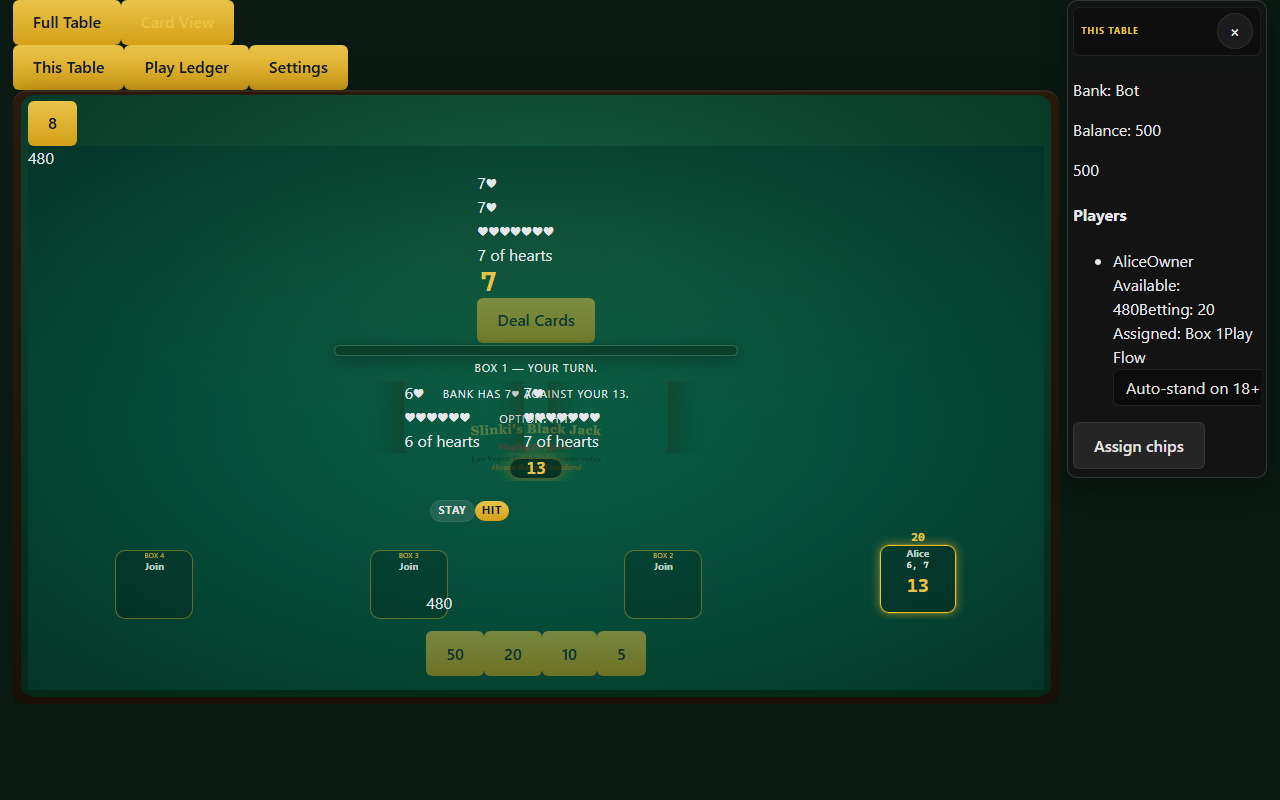
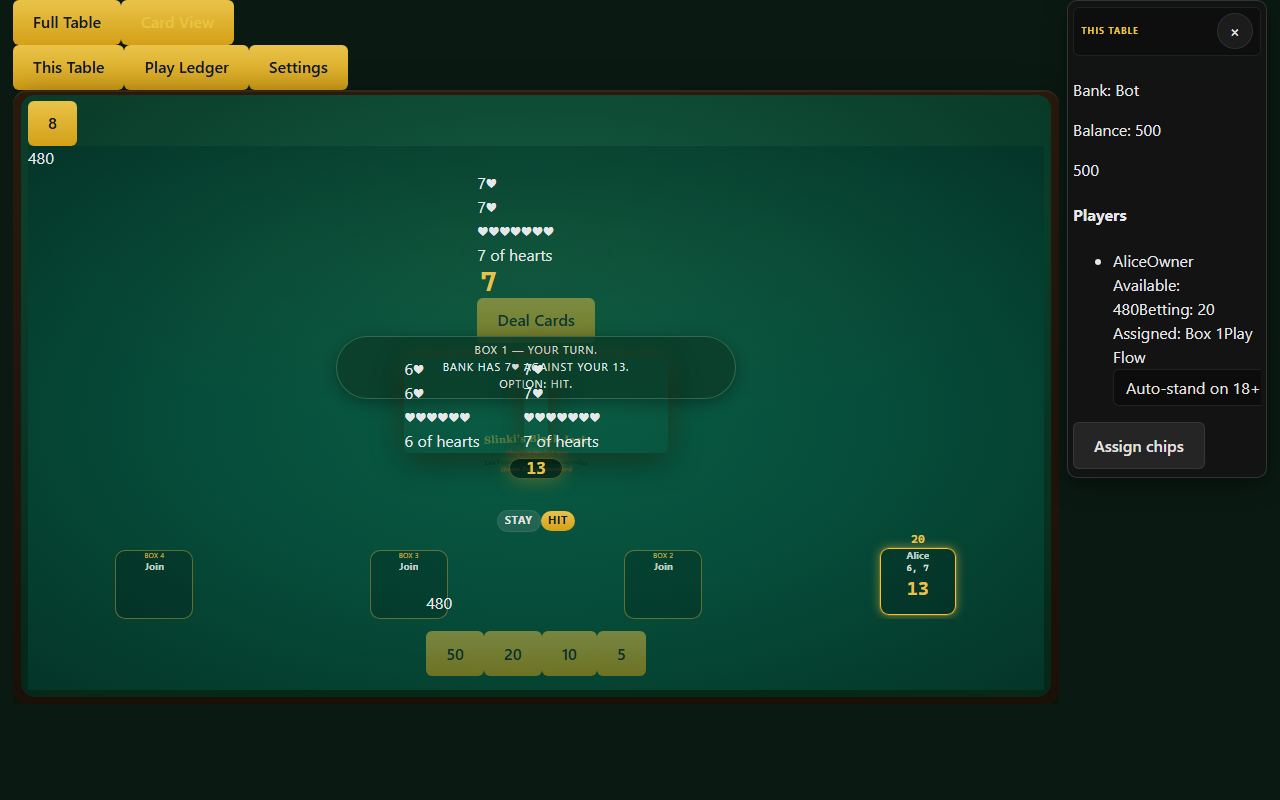
Finalize desktop blackjack phase layout polish

diff --git a/src/styles/bj-blackjack-table-shell.css b/src/styles/bj-blackjack-table-shell.css
@@ -8,7 +8,8 @@
 
 /* ── Desktop shared shell (Full Table + Card View) ─────────────────────────── */
 @media (min-width: 721px) {
-  :root {
+  .bj-view-full-desktop,
+  .bj-view-card-desktop {
     --bj-zone-dealer-height: var(--bj-desktop-zone-dealer-height);
     --bj-zone-command-height: var(--bj-desktop-zone-command-height);
     --bj-zone-command-max-height: var(--bj-desktop-zone-command-height);
@@ -18,6 +19,8 @@
     --bj-zone-tray-height: var(--bj-desktop-zone-tray-height);
     --bj-zone-boxes-tray-gap: var(--bj-desktop-zone-boxes-tray-gap);
     --bj-zone-tray-padding-bottom: var(--bj-desktop-bottom-padding);
+    --bj-dealer-command-gap: var(--bj-desktop-dealer-command-gap);
+    --bj-cards-actions-gap: var(--bj-desktop-actions-zone-padding-top);
     --bj-desktop-grid-row-cards: minmax(0, 1fr);
   }
 
@@ -57,10 +60,10 @@
   .bj-view-card-desktop.bj-casino[data-bj-phase='dealing'],
   .bj-view-full-desktop.bj-casino[data-bj-phase='playing'],
   .bj-view-card-desktop.bj-casino[data-bj-phase='playing'] {
-    --bj-desktop-zone-command-height: 5.85rem;
+    --bj-desktop-zone-command-height: 7.15rem;
     --bj-desktop-dealer-command-gap: 3.85rem;
     --bj-desktop-zone-actions-height: 2.5rem;
-    --bj-desktop-actions-zone-padding-top: 0.94rem;
+    --bj-desktop-actions-zone-padding-top: 1.56rem;
     --bj-desktop-actions-boxes-gap: 0.14rem;
     --bj-command-cards-gap: 0.08rem;
   }
@@ -138,9 +141,44 @@
   .bj-view-full-desktop .bj-table-layout-shell > .bj-table-zone--summary .dealer-block__command,
   .bj-view-card-desktop .bj-table-layout-shell > .bj-table-zone--summary .bj-card-layout__command,
   .bj-view-card-desktop .bj-table-layout-shell > .bj-table-zone--summary .dealer-block__command {
-    max-height: 100%;
     overflow: visible;
-    padding: 0.3rem 1.35rem;
+    padding: 0.38rem 1.5rem;
+  }
+
+  .bj-view-full-desktop.bj-casino[data-bj-phase='dealing'] .bj-table-layout-shell > .bj-table-zone--summary .bj-card-layout__command,
+  .bj-view-full-desktop.bj-casino[data-bj-phase='playing'] .bj-table-layout-shell > .bj-table-zone--summary .bj-card-layout__command,
+  .bj-view-card-desktop.bj-casino[data-bj-phase='dealing'] .bj-table-layout-shell > .bj-table-zone--summary .bj-card-layout__command,
+  .bj-view-card-desktop.bj-casino[data-bj-phase='playing'] .bj-table-layout-shell > .bj-table-zone--summary .bj-card-layout__command {
+    flex: 1 1 auto;
+    align-self: stretch;
+    width: 100%;
+    min-height: 2.75rem;
+    max-height: none;
+    height: auto;
+  }
+
+  .bj-view-full-desktop.bj-casino[data-bj-phase='dealing'] .bj-table-layout-shell > .bj-table-zone--summary .dealer-block__command,
+  .bj-view-full-desktop.bj-casino[data-bj-phase='playing'] .bj-table-layout-shell > .bj-table-zone--summary .dealer-block__command,
+  .bj-view-card-desktop.bj-casino[data-bj-phase='dealing'] .bj-table-layout-shell > .bj-table-zone--summary .dealer-block__command,
+  .bj-view-card-desktop.bj-casino[data-bj-phase='playing'] .bj-table-layout-shell > .bj-table-zone--summary .dealer-block__command {
+    display: flex;
+    flex-direction: column;
+    justify-content: center;
+    gap: 0.14rem;
+    width: 100%;
+    min-height: 2.75rem;
+    height: auto;
+    max-height: none;
+    box-sizing: border-box;
+  }
+
+  .bj-view-full-desktop.bj-casino[data-bj-phase='dealing'] .bj-table-layout-shell > .bj-table-zone--summary .dealer-block__status,
+  .bj-view-full-desktop.bj-casino[data-bj-phase='playing'] .bj-table-layout-shell > .bj-table-zone--summary .dealer-block__status,
+  .bj-view-card-desktop.bj-casino[data-bj-phase='dealing'] .bj-table-layout-shell > .bj-table-zone--summary .dealer-block__status,
+  .bj-view-card-desktop.bj-casino[data-bj-phase='playing'] .bj-table-layout-shell > .bj-table-zone--summary .dealer-block__status {
+    display: block;
+    line-height: 1.35;
+    margin: 0;
   }
 
   .bj-view-full-desktop .bj-table-layout-shell > .bj-table-zone--cards,
@@ -176,6 +214,12 @@
     justify-content: center;
   }
 
+  .bj-view-card-desktop.bj-casino[data-bj-phase='betting'] .bj-table-layout-shell > .bj-table-zone--cards.bj-cards-area--hero,
+  .bj-view-card-desktop.bj-casino[data-bj-phase='resolved'] .bj-table-layout-shell > .bj-table-zone--cards.bj-cards-area--hero {
+    padding-top: 0;
+    justify-content: flex-end;
+  }
+
   .bj-view-full-desktop .bj-table-layout-shell > .bj-table-zone--actions,
   .bj-view-card-desktop .bj-table-layout-shell > .bj-table-zone--actions {
     grid-row: actions;
@@ -190,7 +234,7 @@
     padding-top: var(--bj-desktop-actions-zone-padding-top);
     padding-bottom: 0;
     align-items: center;
-    justify-content: center;
+    justify-content: flex-start;
     overflow: visible;
   }
 

diff --git a/src/styles/bj-player-row-layout.css b/src/styles/bj-player-row-layout.css
@@ -64,31 +64,40 @@
   }
 
   /* Player-box column sizing — spread block below sets row width; slot width here. */
-  .bj-view-full-desktop .bj-table-slot-row.bj-arc--player-boxes > .bj-arc__slot {
+  .bj-view-full-desktop .bj-table-slot-row.bj-arc--player-boxes > .bj-arc__slot,
+  .bj-view-card-desktop .bj-table-slot-row.bj-arc--player-boxes > .bj-arc__slot {
     width: var(--bj-full-table-box-width);
     max-width: calc(var(--bj-full-table-box-width) + 0.35rem);
     align-self: center;
   }
 
   .bj-view-full-desktop .bj-table-slot-row.bj-arc--player-boxes > .bj-arc__slot--owned,
-  .bj-view-full-desktop .bj-table-slot-row.bj-arc--player-boxes > .bj-arc__slot--empty {
+  .bj-view-full-desktop .bj-table-slot-row.bj-arc--player-boxes > .bj-arc__slot--empty,
+  .bj-view-card-desktop .bj-table-slot-row.bj-arc--player-boxes > .bj-arc__slot--owned,
+  .bj-view-card-desktop .bj-table-slot-row.bj-arc--player-boxes > .bj-arc__slot--empty {
     align-self: center;
   }
 
   .bj-view-full-desktop .bj-table-slot-row__add,
-  .bj-view-full-desktop .bj-player-boxes-wrap__add{
+  .bj-view-full-desktop .bj-player-boxes-wrap__add,
+  .bj-view-card-desktop .bj-table-slot-row__add,
+  .bj-view-card-desktop .bj-player-boxes-wrap__add {
     align-self: center;
     height: var(--bj-full-table-box-height);
     min-height: var(--bj-full-table-box-height);
   }
 
   .bj-view-full-desktop .bj-table-slot-row__add::before,
-  .bj-view-full-desktop .bj-player-boxes-wrap__add::before{
+  .bj-view-full-desktop .bj-player-boxes-wrap__add::before,
+  .bj-view-card-desktop .bj-table-slot-row__add::before,
+  .bj-view-card-desktop .bj-player-boxes-wrap__add::before {
     display: none;
   }
 
   .bj-view-full-desktop .bj-table-slot-row__add::after,
-  .bj-view-full-desktop .bj-player-boxes-wrap__add::after{
+  .bj-view-full-desktop .bj-player-boxes-wrap__add::after,
+  .bj-view-card-desktop .bj-table-slot-row__add::after,
+  .bj-view-card-desktop .bj-player-boxes-wrap__add::after {
     content: '+';
     display: flex;
     align-items: center;

diff --git a/src/styles/bj-card-desktop-hero-area.css b/src/styles/bj-card-desktop-hero-area.css
@@ -159,8 +159,42 @@
     margin: 0;
   }
 
-  .bj-view-card-desktop .bj-table-zone--cards .bj-felt-cloth-layer__svg {
-    width: var(--bj-cloth-svg-width);
-    max-height: var(--bj-cloth-svg-max-height);
+  .bj-view-card-desktop.bj-casino[data-bj-phase='betting'] .bj-card-desktop-hero,
+  .bj-view-card-desktop.bj-casino[data-bj-phase='resolved'] .bj-card-desktop-hero {
+    flex: 0 0 auto;
+    min-height: 0;
+    justify-content: flex-end;
+    padding-top: 0;
+    padding-bottom: 0;
+  }
+
+  .bj-view-card-desktop.bj-casino[data-bj-phase='betting'] .bj-card-desktop-hero__cards,
+  .bj-view-card-desktop.bj-casino[data-bj-phase='resolved'] .bj-card-desktop-hero__cards {
+    flex: 0 0 auto;
+    min-height: 0;
+    max-height: 0;
+    overflow: hidden;
+  }
+
+  .bj-view-card-desktop.bj-casino[data-bj-phase='dealing'] .bj-card-desktop-hero,
+  .bj-view-card-desktop.bj-casino[data-bj-phase='playing'] .bj-card-desktop-hero {
+    overflow: visible;
+  }
+
+  .bj-view-card-desktop.bj-casino[data-bj-phase='dealing'] .bj-card-desktop-hero__cards,
+  .bj-view-card-desktop.bj-casino[data-bj-phase='playing'] .bj-card-desktop-hero__cards {
+    overflow: visible;
+    min-height: 7.75rem;
+  }
+
+  .bj-view-card-desktop.bj-casino[data-bj-phase='dealing'] .bj-card-desktop-hero__fan,
+  .bj-view-card-desktop.bj-casino[data-bj-phase='playing'] .bj-card-desktop-hero__fan {
+    overflow: visible;
+    max-height: none;
+  }
+
+  .bj-view-card-desktop.bj-casino[data-bj-phase='dealing'] .bj-table-layout-shell > .bj-table-zone--cards.bj-cards-area--hero,
+  .bj-view-card-desktop.bj-casino[data-bj-phase='playing'] .bj-table-layout-shell > .bj-table-zone--cards.bj-cards-area--hero {
+    overflow: visible;
   }
 }

diff --git a/src/styles/bj-card-desktop-layout.css b/src/styles/bj-card-desktop-layout.css
@@ -2,28 +2,5 @@
  * Desktop Card View — shell-adjacent overrides outside hero internals.
  * Hero cards area: bj-card-desktop-hero-area.css
  * Shell zones: bj-blackjack-table-shell.css
+ * Actions/boxes/command/tray bands: shared shell only (no per-view overrides).
  */
-
-@media (min-width: 721px) {
-  /* Actions zone — center row under hero when actions render in shell grid band. */
-  .bj-view-card-desktop .bj-table-layout-shell > .bj-table-zone--actions {
-    align-items: center;
-    justify-content: flex-start;
-  }
-
-  .bj-view-card-desktop .bj-table-layout-shell .bj-table-zone--actions .bj-action-row {
-    width: 100%;
-    max-width: 100%;
-    display: flex;
-    justify-content: center;
-    align-items: center;
-    box-sizing: border-box;
-  }
-
-  .bj-view-card-desktop .bj-table-layout-shell .bj-table-zone--actions .bj-table-actions {
-    width: 100%;
-    max-width: 14rem;
-    margin-inline: auto;
-    align-self: center;
-  }
-}

diff --git a/src/components/BlackjackPanel.css b/src/components/BlackjackPanel.css
@@ -1428,8 +1428,17 @@
 @media (min-width: 721px) {
   .bj-view-full-desktop.bj-casino .bj-table-desktop-shell > .bj-casino__table-header .bj-casino__toolbar,
   .bj-view-card-desktop.bj-casino .bj-table-desktop-shell > .bj-casino__table-header .bj-casino__toolbar {
+    display: flex;
+    align-items: center;
+    justify-content: space-between;
+    gap: 0.35rem;
     padding-inline: calc(0.5rem + 0.45rem);
     box-sizing: border-box;
   }
 
+  .bj-view-full-desktop.bj-casino .bj-table-desktop-shell > .bj-casino__table-header .bj-casino__table-nav,
+  .bj-view-card-desktop.bj-casino .bj-table-desktop-shell > .bj-casino__table-header .bj-casino__table-nav {
+    margin-left: auto;
+    justify-self: auto;
+  }
 }

diff --git a/src/components/CardViewDesktopHeroArea.tsx b/src/components/CardViewDesktopHeroArea.tsx
@@ -82,7 +82,9 @@ export function CardViewDesktopHeroArea({
   const visualHand =
     heroHandKey && round?.playerHands[heroHandKey] ? round.playerHands[heroHandKey] : undefined;
 
-  const heroCardIds = (visualHand?.cardIds ?? []).filter((id) => id.length > 0);
+  const logicalCardIds = (logicalHand?.cardIds ?? []).filter((id) => id.length > 0);
+  const visualCardIds = (visualHand?.cardIds ?? []).filter((id) => id.length > 0);
+  const heroCardIds = visualCardIds.length > 0 ? visualCardIds : logicalCardIds;
   const heroDisplayValue =
     heroHandKey !== null ? getDisplayedHandValue(deck, round, heroHandKey) : null;
 

diff --git a/src/components/ChipStack.css b/src/components/ChipStack.css
@@ -310,8 +310,8 @@
     width: 100%;
     max-width: min(100%, 32rem);
     min-height: 0;
-    padding: 0.42rem 1.05rem 0.2rem;
-    gap: 0.16rem;
+    padding: 0.42rem 1.05rem 0.1rem;
+    gap: 0;
     box-sizing: border-box;
   }
 
@@ -328,7 +328,7 @@
     grid-row: 2;
     width: 100%;
     flex: 0 0 auto;
-    padding-top: 0;
+    padding-top: 15px;
     font-size: 0.66rem;
     line-height: 1.1;
   }

diff --git a/src/components/BlackjackPanel.tsx b/src/components/BlackjackPanel.tsx
@@ -1585,7 +1585,7 @@ export function BlackjackPanel({
 
     return (
       <BlackjackActionRow
-        scale={isCardViewDesktop || isCardViewMobile ? 'card-view' : 'full-table'}
+        scale={isCardViewMobile ? 'card-view' : 'full-table'}
         variant="table"
         actionsEnabled={playerDecisionActionsEnabled}
         canHit={canHit}
